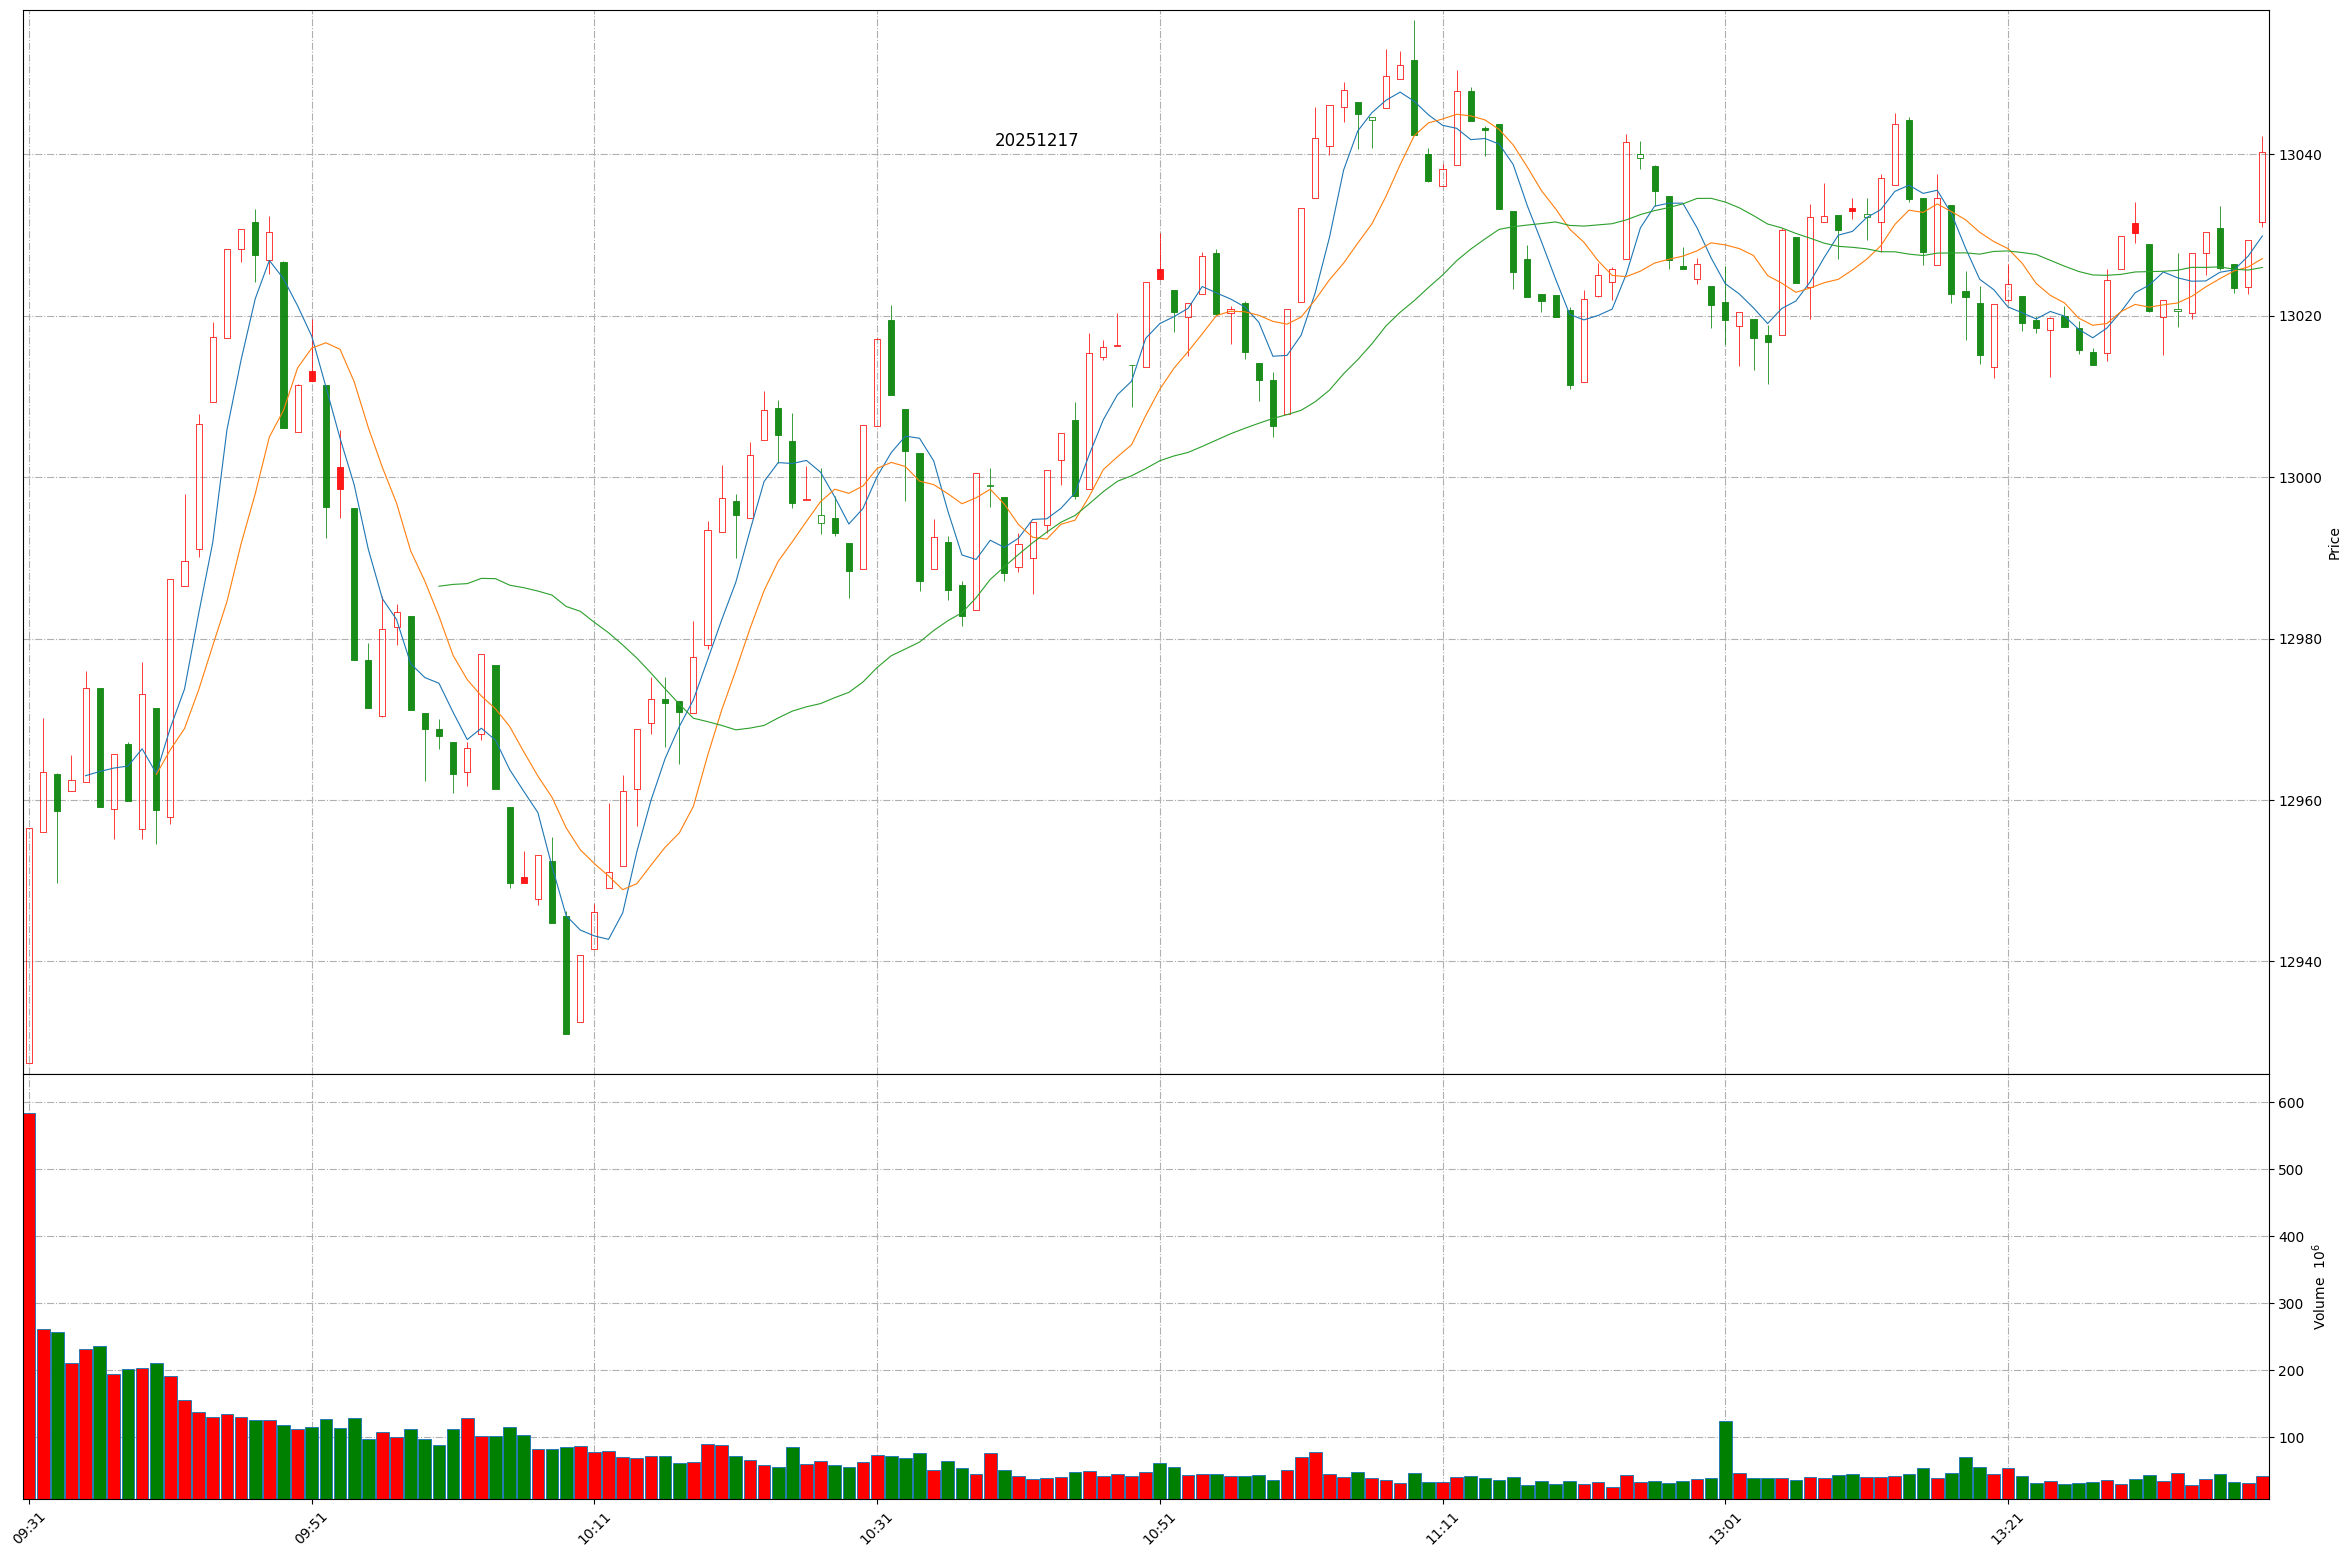
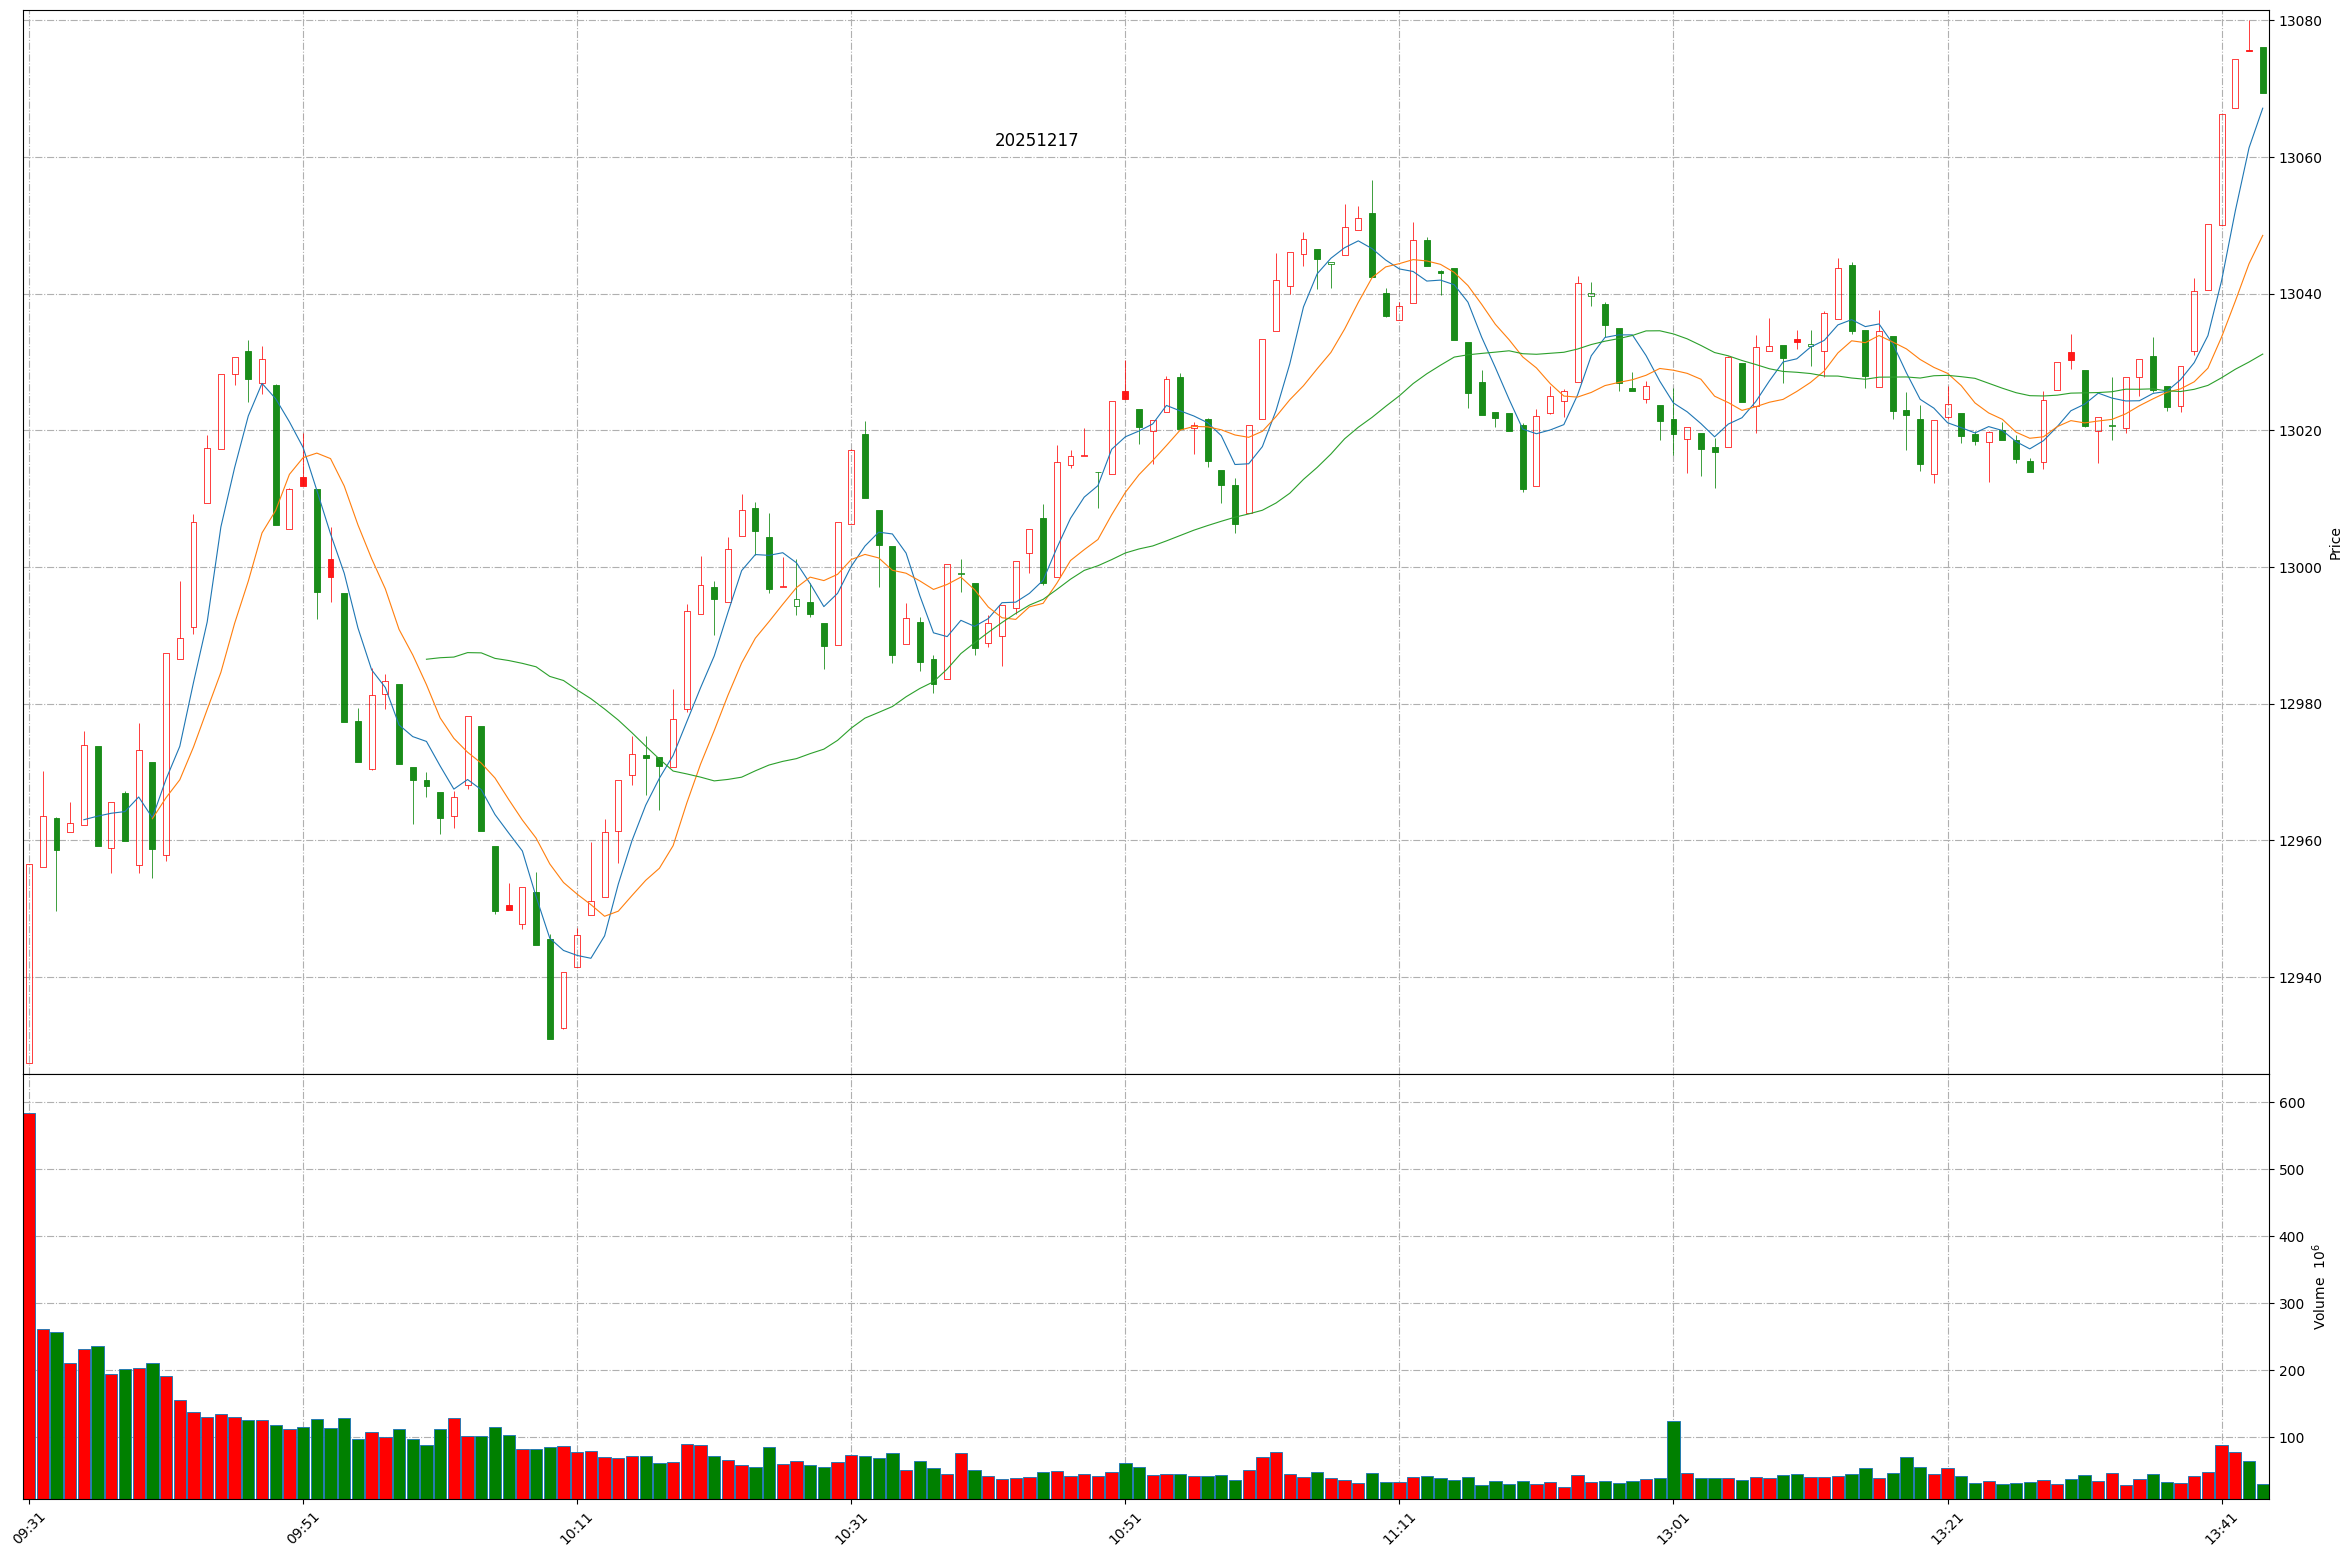
Github action update at 2025-12-17 13:43:45.

diff --git a/README.md b/README.md
@@ -1,11 +1,11 @@
 
 # Daily-A-share-market-quotes 每日 A 股指数（5min 更新）- 20251217
 
-### 上证指数 20251217 13:39
+### 上证指数 20251217 13:43
 ![](./fig/2025/12/20251217-sh000001.png)
 
-### 深证成指 20251217 13:39
+### 深证成指 20251217 13:43
 ![](./fig/2025/12/20251217-sz399001.png)
 
-### 北证50 20251217 13:39
+### 北证50 20251217 13:43
 ![](./fig/2025/12/20251217-bj899050.png)
